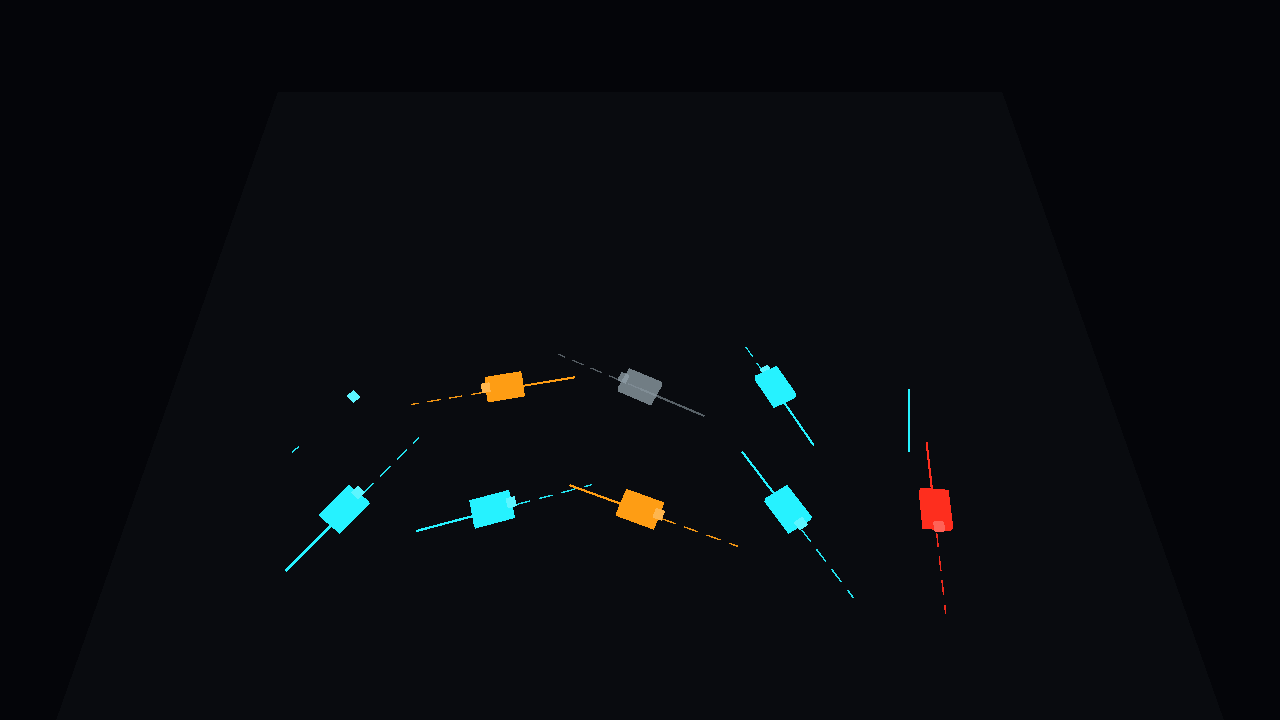
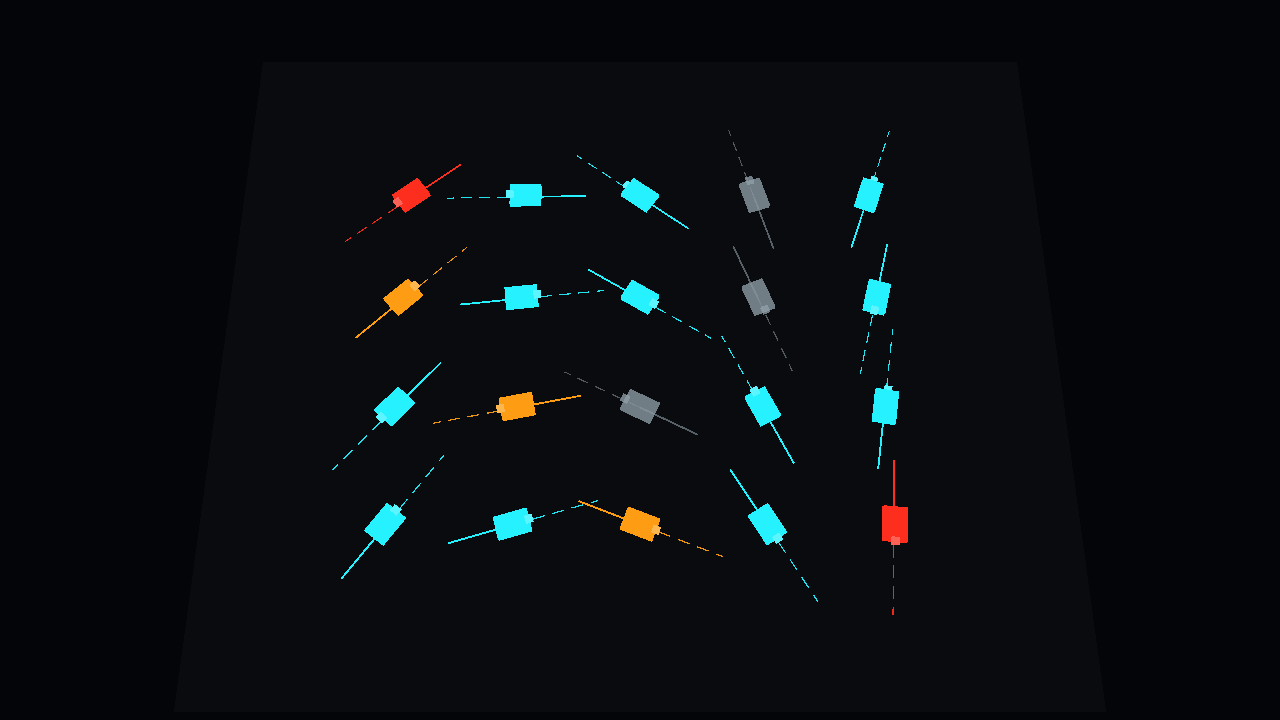
Replace the Mac captures with the verified full-fleet frames.
The owner rebuilt commit 76785ab on Unity 6000.6.5f1 and confirmed all 20 rovers are in frame.

diff --git a/spikes/unity-dashboard/SPIKE_REPORT.md b/spikes/unity-dashboard/SPIKE_REPORT.md
@@ -32,11 +32,11 @@ Two compile/build fixes were required before that run, and they are in this bran
 1. `Assets/Editor/FleetSceneSetup.cs` needs `using UnityEditor.Build;`. Without it, `NamedBuildTarget` is unresolved (`CS0103` at the `SetScriptingBackend` call).
 2. `ProjectSettings/ProjectSettings.asset` had `scriptingBackend` Standalone set to `1` (IL2CPP). The Mac has no IL2CPP module, so the player build failed with `Currently selected scripting backend (IL2CPP) is not installed`. The committed default is Mono (`0`). `PrepareLinuxPlayer` still sets IL2CPP immediately before the Linux player build.
 
-The overview frame shows about 10 of the 20 rovers. The other two rows are inside the old frustum on paper, but they do not appear in the capture: the fleet sits in the lower half of the 1280×720 image, and the ground used the same ZWrite-off transparent shader as the rovers, so the ground quad could paint over the far markers. The scene camera is now at `(0, 36, -12)`, pitched 72°, field of view 40, which places all four rows between roughly 27% and 73% of the frame height. The ground uses an opaque unlit shader so it draws before the rovers. That framing change has not been re-captured; the images below are the owner's build from before it.
+The first Mac capture showed about 10 of the 20 rovers, crowded into the lower half of the 1280×720 frame. The scene camera is now at `(0, 36, -12)`, pitched 72°, field of view 40, and the ground uses an opaque unlit shader so it draws before the rovers. The owner rebuilt the scene and the Mac player from commit `76785ab` on Unity `6000.6.5f1`. That framing fix is verified: the new overview and selection captures show all 20 rovers in frame.
 
-![Mac overview, before the framing change](docs/mac-overview.png)
+![Mac overview, all 20 rovers framed](docs/mac-overview.png)
 
-![Mac selection, terra-07 ring, other rovers dimmed](docs/mac-selected.png)
+![Mac selection, terra-07 ring, other rovers dimmed, full fleet still in frame](docs/mac-selected.png)
 
 ## Exact errors
 
